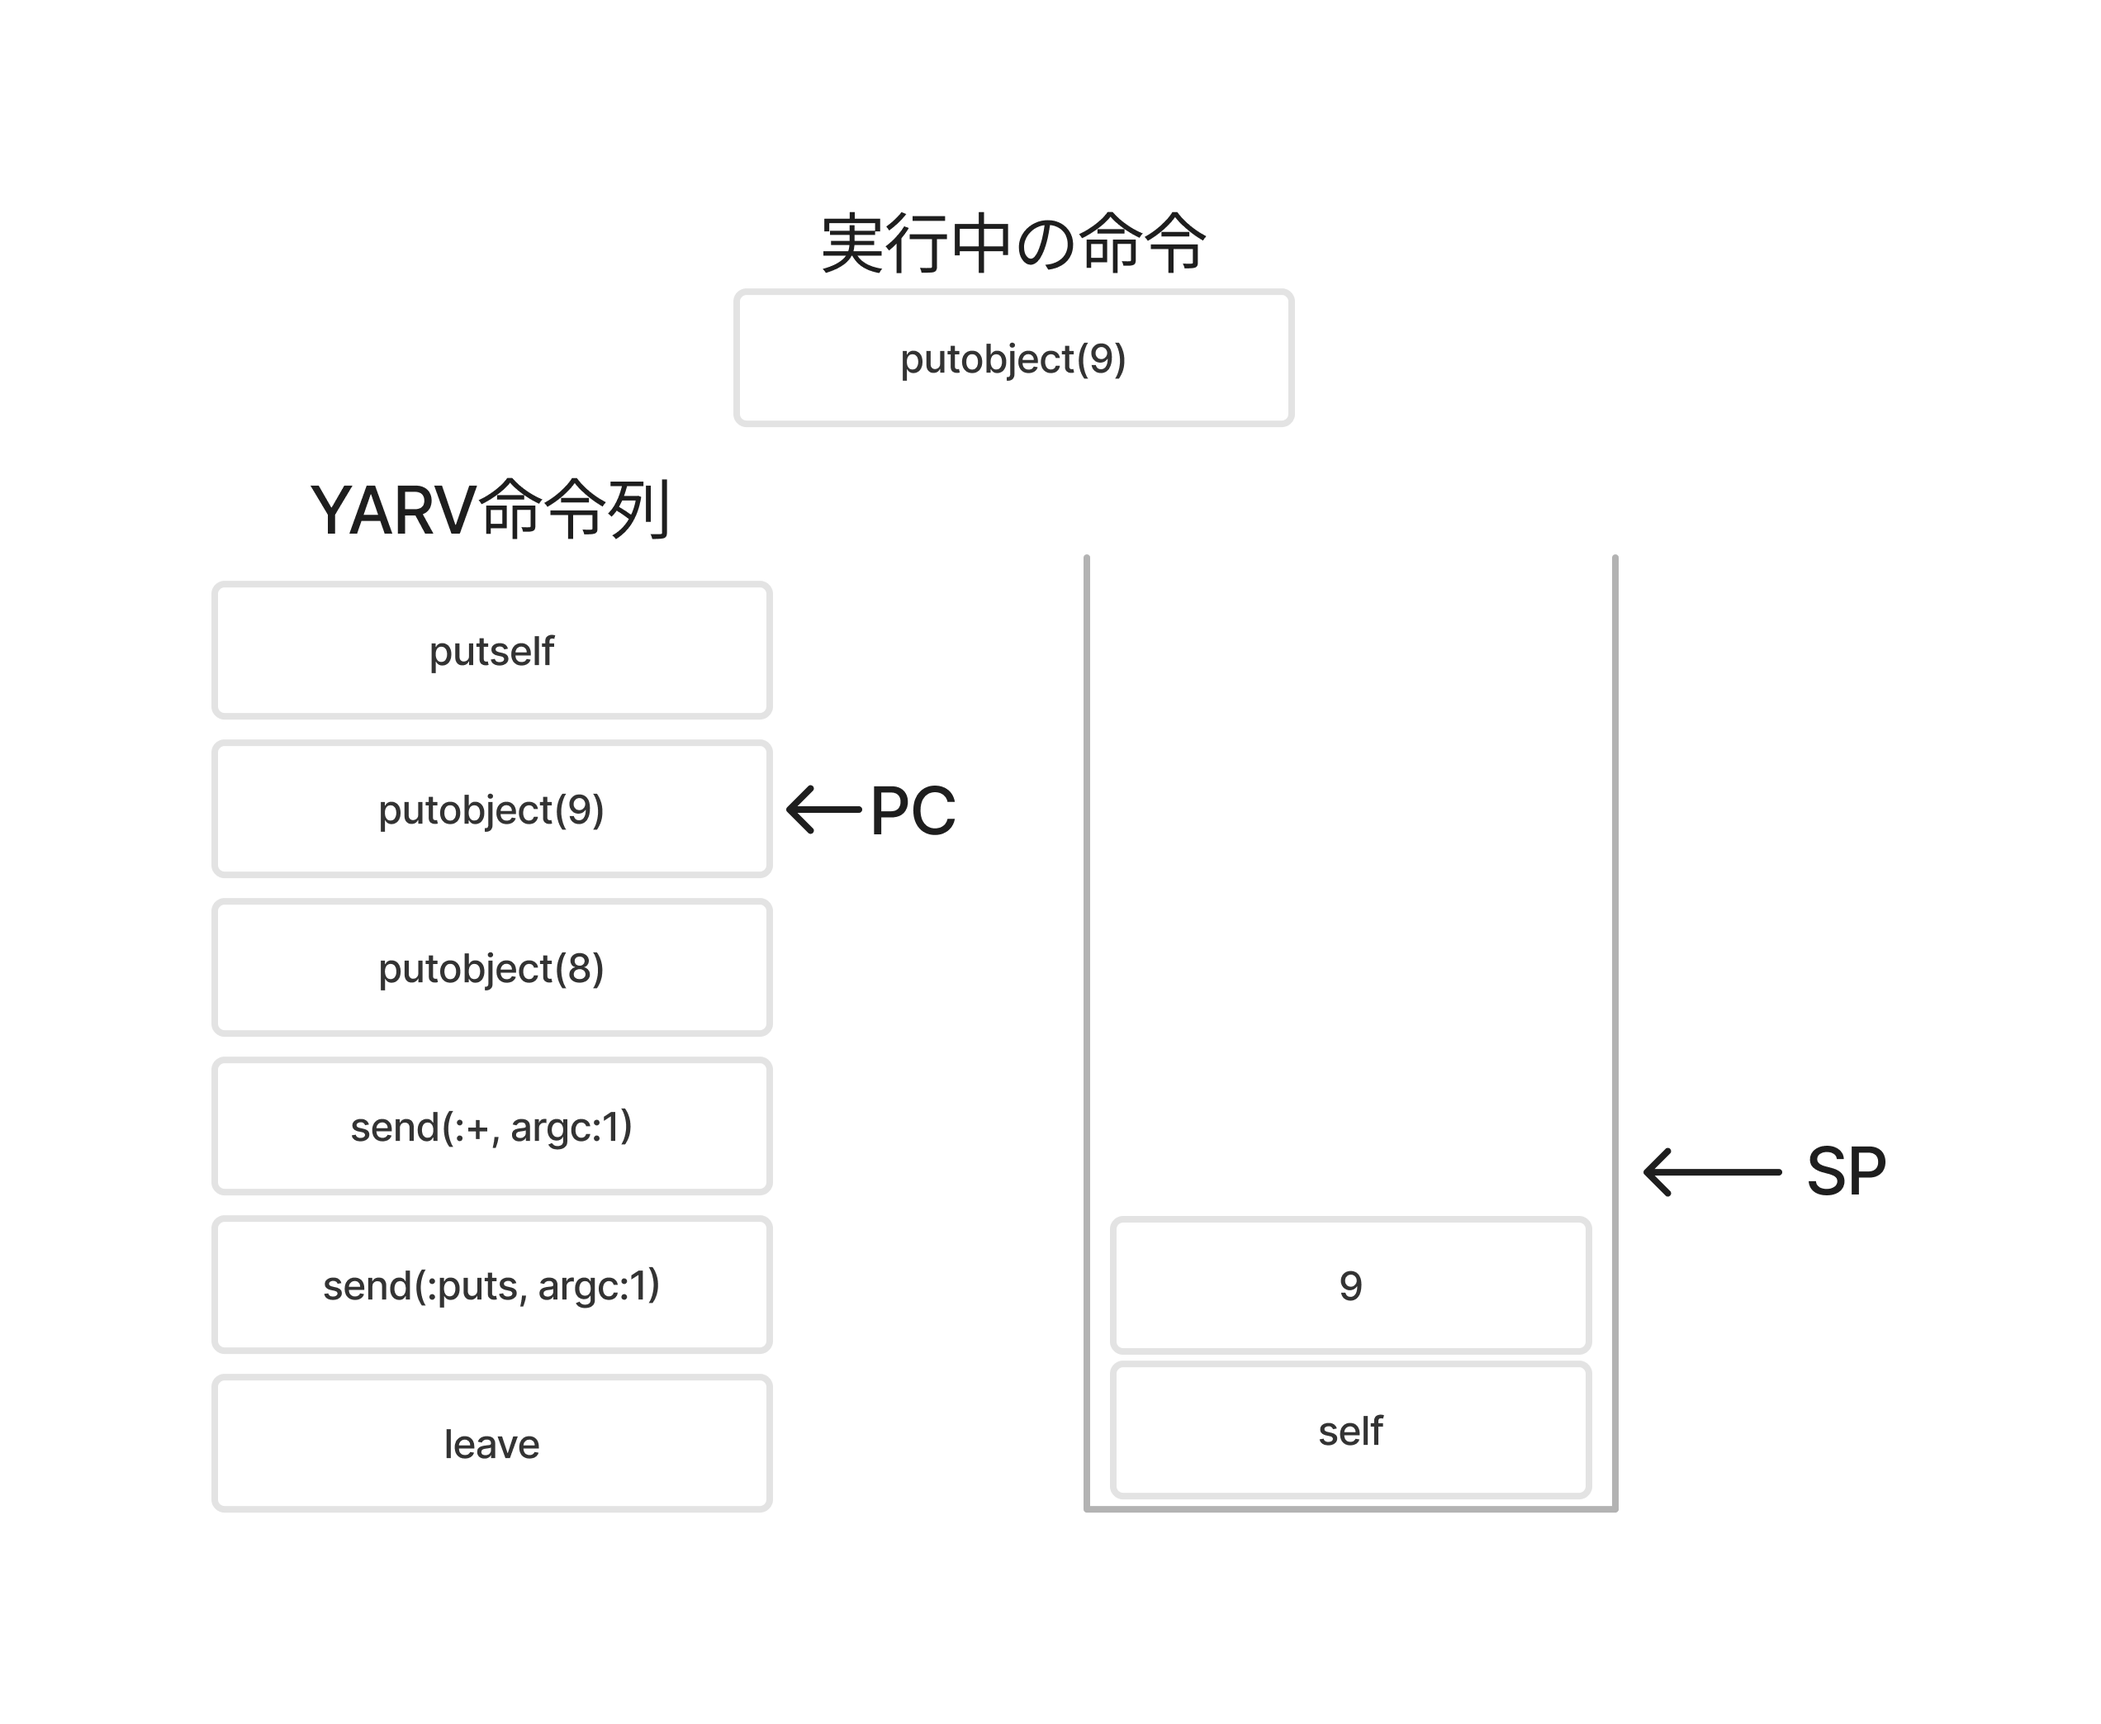
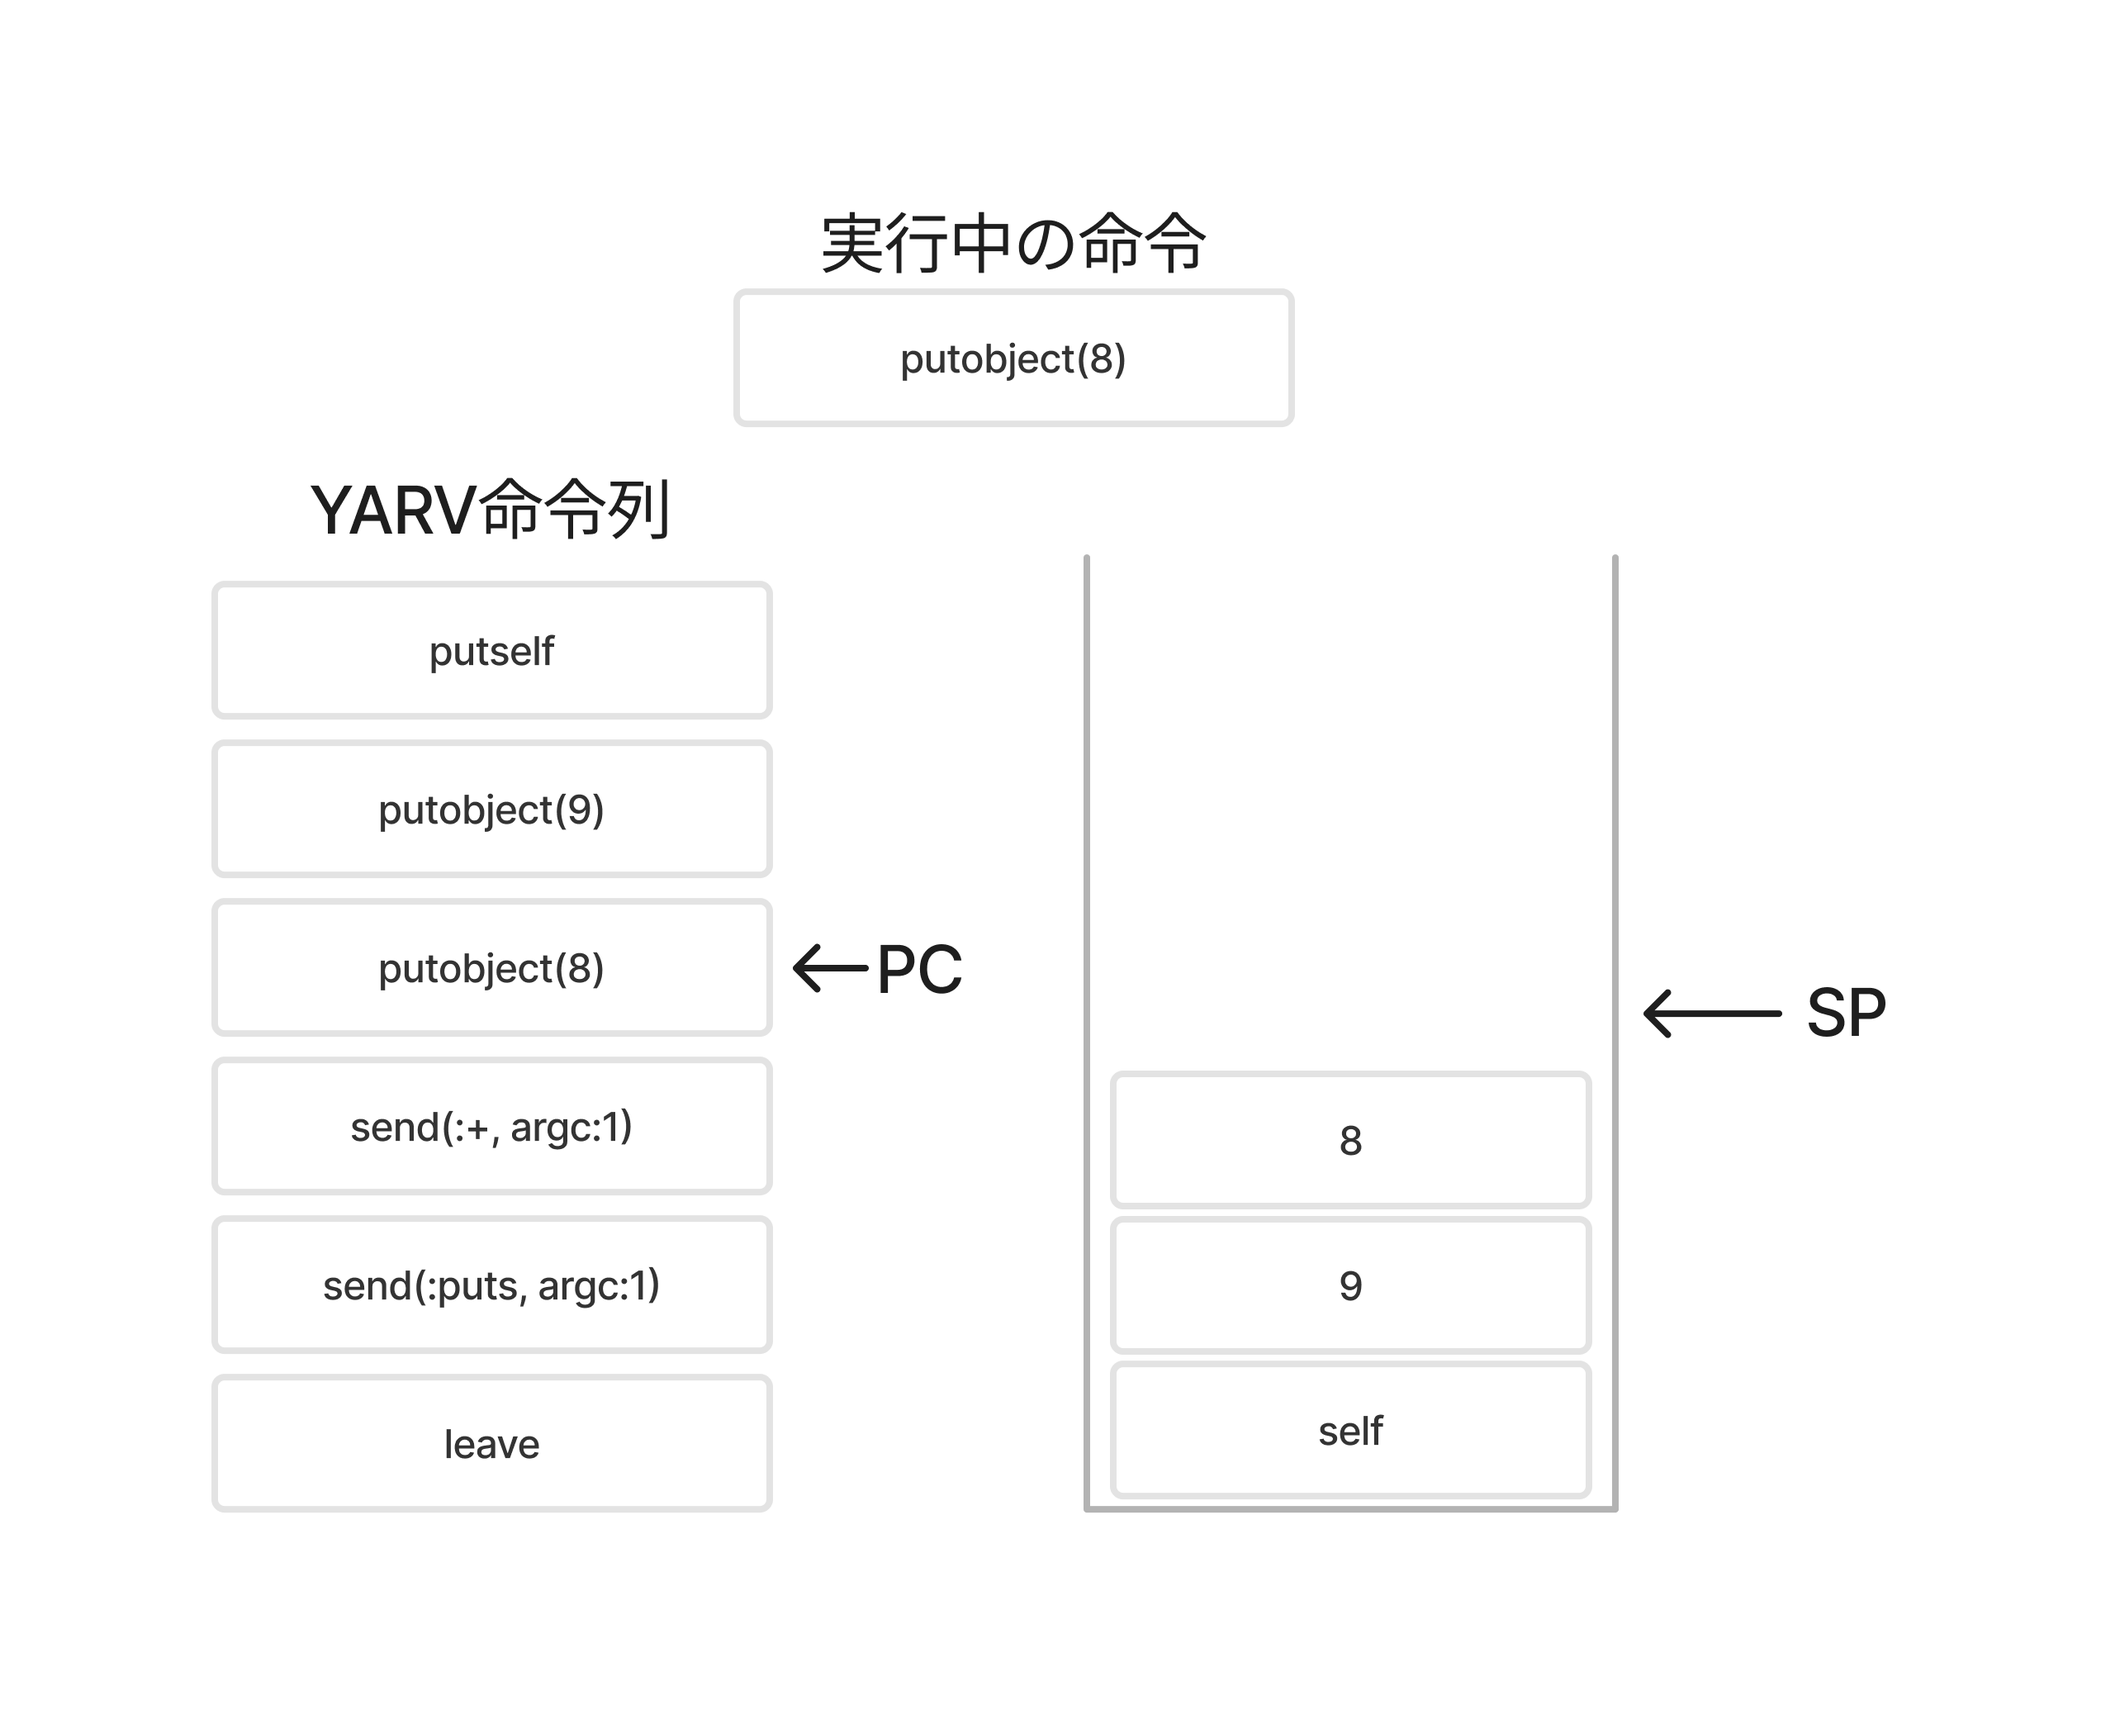
update

diff --git a/rubykaigi-bootcamp-2025/slides.md b/rubykaigi-bootcamp-2025/slides.md
@@ -817,7 +817,7 @@ layout: default
 ```rb
 puts 9 + 8
 ```
-<p class='text-xl'>バイトコード</p>
+<p class='text-xl'>生成されるバイトコード</p>
 ```{*}{maxHeight: '400px'}
 0000 putself
 0001 putobject(9)
@@ -862,6 +862,7 @@ class: max-w-3xl m-x-auto
 transition: none
 ---
 
+
 ---
 layout: image
 image: vm-simple-stack/simple-stack-6.png
@@ -904,6 +905,223 @@ class: max-w-3xl m-x-auto
 transition: none
 ---
 
+---
+layout: default
+---
+# YARVを理解する
+
+<p class='text-xl'>メソッド呼び出しのパターン</p>
+
+```rb
+def foo(a,b)
+  puts a + b
+end
+foo(9,8)
+```
+
+---
+layout: full
+---
+
+<div class='flex flex-col justify-center h-full items-center'>
+<div class="flex items-center" v-mark.circle.orange>
+<div>
+```rb
+def foo(a,b)
+  ...
+end
+foo(9,8)
+```
+</div>
+<p class="text-2xl font-bold mx-8">→</p>
+<div>
+``` {*}{maxHeight: '400px', class:'!children:text-xs'}
+== disasm: #<ISeq:<compiled>@<compiled>:1 (1,0)-(4,8)>
+0000 definemethod                           :foo, foo                 (   1)[Li]
+0003 putself                                                          (   4)[Li]
+0004 putobject                              9
+0006 putobject                              8
+0008 send                                   <calldata!mid:foo, argc:2, FCALL|ARGS_SIMPLE>, nil
+0011 leave
+```
+</div>
+</div>
+
+<div class="flex items-center">
+<div>
+```rb
+...
+puts a + b
+...
+```
+</div>
+<p class="text-2xl font-bold mx-8">→</p>
+<div>
+```{*}{maxHeight: '400px', class:'!children:text-xs'}
+== disasm: #<ISeq:foo@<compiled>:1 (1,0)-(3,3)>
+local table (size: 2, argc: 2 [opts: 0, rest: -1, post: 0, block: -1, kw: -1@-1, kwrest: -1])
+[ 2] a@0<Arg>   [ 1] b@1<Arg>
+0000 putself                                                          (   2)[LiCa]
+0001 getlocal                               a@0, 0
+0004 getlocal                               b@1, 0
+0007 send                                   <calldata!mid:+, argc:1, ARGS_SIMPLE>, nil
+0010 send                                   <calldata!mid:puts, argc:1, FCALL|ARGS_SIMPLE>, nil
+0013 leave                                                            (   3)[Re]
+```
+</div>
+</div>
+</div>
+
+
+
+---
+layout: image
+image: vm-simple-stack/method-stack-1.png
+class: max-w-3xl m-x-auto
+transition: none
+---
+
+---
+layout: image
+image: vm-simple-stack/method-stack-2.png
+class: max-w-3xl m-x-auto
+transition: none
+---
+
+---
+layout: image
+image: vm-simple-stack/method-stack-3.png
+class: max-w-3xl m-x-auto
+transition: none
+---
+
+---
+layout: image
+image: vm-simple-stack/method-stack-4.png
+class: max-w-3xl m-x-auto
+transition: none
+---
+
+---
+layout: image
+image: vm-simple-stack/method-stack-5.png
+class: max-w-3xl m-x-auto
+transition: none
+---
+
+
+
+
+
+---
+layout: full
+---
+
+<div class='flex flex-col justify-center h-full items-center'>
+<div class="flex items-center">
+<div>
+```rb
+def foo(a,b)
+  ...
+end
+foo(9,8)
+```
+</div>
+<p class="text-2xl font-bold mx-8">→</p>
+<div>
+``` {*}{maxHeight: '400px', class:'!children:text-xs'}
+== disasm: #<ISeq:<compiled>@<compiled>:1 (1,0)-(4,8)>
+0000 definemethod                           :foo, foo                 (   1)[Li]
+0003 putself                                                          (   4)[Li]
+0004 putobject                              9
+0006 putobject                              8
+0008 send                                   <calldata!mid:foo, argc:2, FCALL|ARGS_SIMPLE>, nil
+0011 leave
+```
+</div>
+</div>
+
+<div class="flex items-center" v-mark.circle.orange>
+<div>
+```rb
+...
+puts a + b
+...
+```
+</div>
+<p class="text-2xl font-bold mx-8">→</p>
+<div>
+```{*}{maxHeight: '400px', class:'!children:text-xs'}
+== disasm: #<ISeq:foo@<compiled>:1 (1,0)-(3,3)>
+local table (size: 2, argc: 2 [opts: 0, rest: -1, post: 0, block: -1, kw: -1@-1, kwrest: -1])
+[ 2] a@0<Arg>   [ 1] b@1<Arg>
+0000 putself                                                          (   2)[LiCa]
+0001 getlocal                               a@0, 0
+0004 getlocal                               b@1, 0
+0007 send                                   <calldata!mid:+, argc:1, ARGS_SIMPLE>, nil
+0010 send                                   <calldata!mid:puts, argc:1, FCALL|ARGS_SIMPLE>, nil
+0013 leave                                                            (   3)[Re]
+```
+</div>
+</div>
+</div>
+
+
+---
+layout: image
+image: vm-simple-stack/method-stack-inscope-1.png
+class: max-w-3xl m-x-auto
+transition: none
+---
+
+---
+layout: image
+image: vm-simple-stack/method-stack-inscope-2.png
+class: max-w-3xl m-x-auto
+transition: none
+---
+
+---
+layout: image
+image: vm-simple-stack/method-stack-inscope-3.png
+class: max-w-3xl m-x-auto
+transition: none
+---
+
+---
+layout: image
+image: vm-simple-stack/method-stack-inscope-4.png
+class: max-w-3xl m-x-auto
+transition: none
+---
+
+---
+layout: image
+image: vm-simple-stack/method-stack-inscope-5.png
+class: max-w-3xl m-x-auto
+transition: none
+---
+
+---
+layout: image
+image: vm-simple-stack/method-stack-inscope-6.png
+class: max-w-3xl m-x-auto
+transition: none
+---
+
+---
+layout: image
+image: vm-simple-stack/method-stack-inscope-7.png
+class: max-w-3xl m-x-auto
+transition: none
+---
+
+---
+layout: image
+image: vm-simple-stack/method-stack-inscope-8.png
+class: max-w-3xl m-x-auto
+transition: none
+---
 
 
 ---
